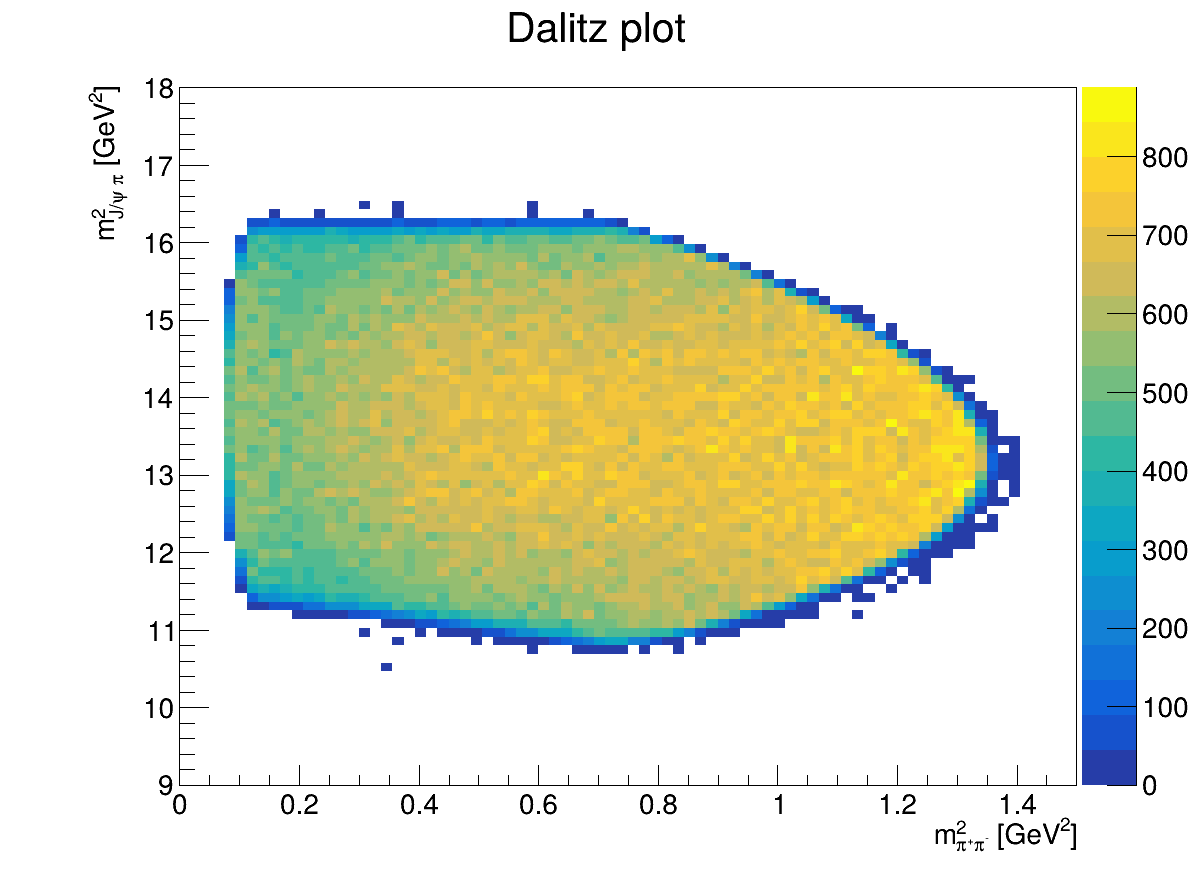
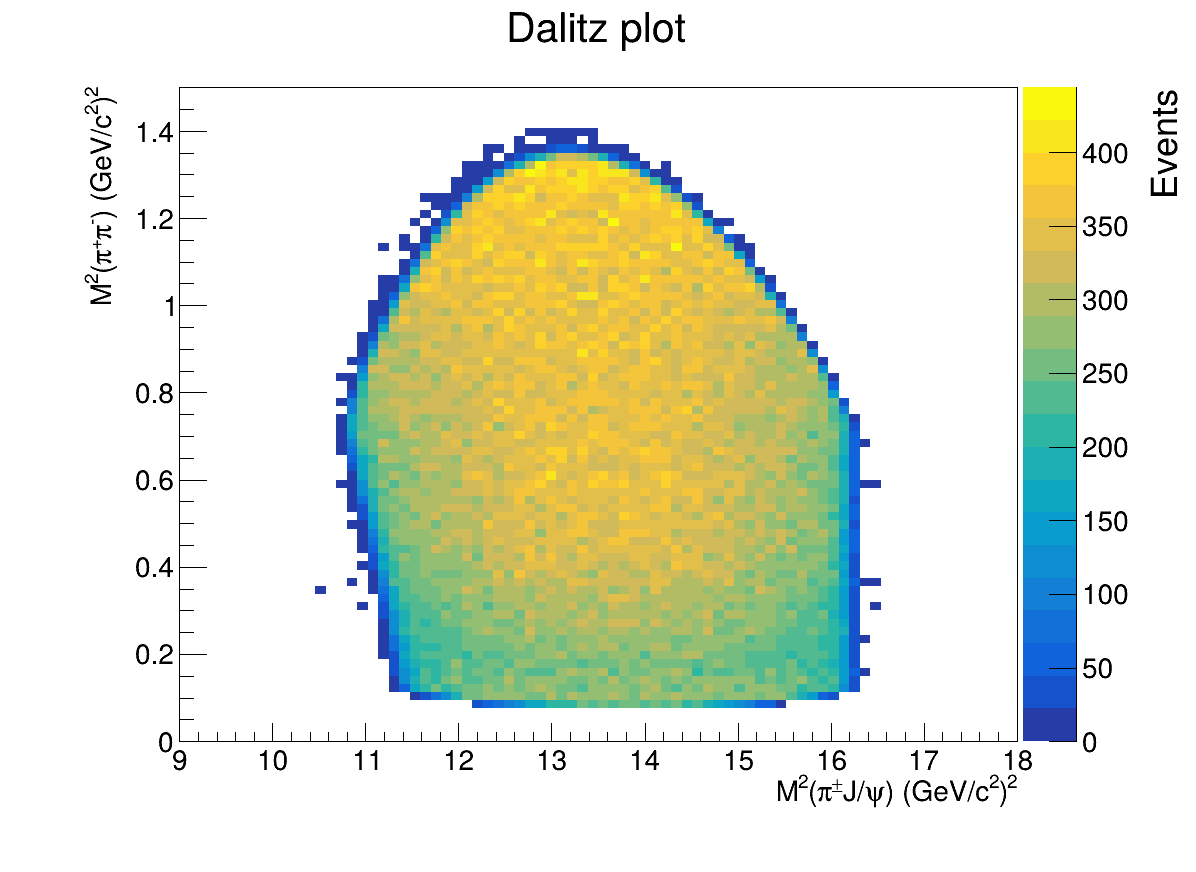
minor changes

diff --git a/part2_KinFit/ZcAnalysis.C b/part2_KinFit/ZcAnalysis.C
@@ -86,24 +86,23 @@ TH1D* h1_mJpsi_recoil = new TH1D(
 // problem 3.6
 TH2D* h2_dalitz = new TH2D(
 "h2_dalitz",
-"Dalitz plot; m^{2}_{#pi^{+}#pi^{-}} [GeV^{2}]; m^{2}_{J/#psi #pi} [GeV^{2}]",
-80,0,1.5,
-80,9,18
+"Dalitz plot; M^{2}(#pi^{#pm}J/#psi) (GeV/c^{2})^{2}; M^{2}(#pi^{+}#pi^{-}) (GeV/c^{2})^{2}",
+80,9,18,
+80,0,1.5
 );
 
-// ===== NEW HISTOGRAMS =====
 TH2D* h2_dalitz_sig = new TH2D(
 "h2_dalitz_sig",
-"Dalitz (signal); m^{2}_{#pi^{+}#pi^{-}} [GeV^{2}]; m^{2}_{J/#psi #pi} [GeV^{2}]",
-80,0,1.5,
-80,9,18
+"Dalitz (signal); M^{2}(#pi^{#pm}J/#psi) (GeV/c^{2})^{2}; M^{2}(#pi^{+}#pi^{-}) (GeV/c^{2})^{2}",
+80,9,18,
+80,0,1.5
 );
 
 TH2D* h2_dalitz_sb = new TH2D(
 "h2_dalitz_sb",
-"Dalitz (sideband); m^{2}_{#pi^{+}#pi^{-}} [GeV^{2}]; m^{2}_{J/#psi #pi} [GeV^{2}]",
-80,0,1.5,
-80,9,18
+"Dalitz (sideband); M^{2}(#pi^{#pm}J/#psi) (GeV/c^{2})^{2}; M^{2}(#pi^{+}#pi^{-}) (GeV/c^{2})^{2}",
+80,9,18,
+80,0,1.5
 );
 // problem 4.1
 TH1D* h1_mJpsi_pipi = new TH1D(
@@ -509,40 +508,23 @@ bool isSignal  = (mll > 3.08 && mll < 3.12);
 bool isLeftSB  = (mll > 3.00 && mll < 3.06);
 bool isRightSB = (mll > 3.14 && mll < 3.20);
 
-// ALWAYS fill original
-h2_dalitz->Fill(m2_pipi, m2_jpsipi1);
-h2_dalitz->Fill(m2_pipi, m2_jpsipi2);
+// ===== DALITZ WITH CORRECT AXIS ORIENTATION =====
 
-// signal only
+h2_dalitz->Fill(m2_jpsipi1, m2_pipi);
+h2_dalitz->Fill(m2_jpsipi2, m2_pipi);
+
+// signal
 if (isSignal)
 {
-    h2_dalitz_sig->Fill(m2_pipi, m2_jpsipi1);
-    h2_dalitz_sig->Fill(m2_pipi, m2_jpsipi2);
+    h2_dalitz_sig->Fill(m2_jpsipi1, m2_pipi);
+    h2_dalitz_sig->Fill(m2_jpsipi2, m2_pipi);
 }
 
 // sidebands
 if (isLeftSB || isRightSB)
 {
-    h2_dalitz_sb->Fill(m2_pipi, m2_jpsipi1);
-    h2_dalitz_sb->Fill(m2_pipi, m2_jpsipi2);
-}
-
-// ALWAYS fill original Dalitz (for comparison)
-h2_dalitz->Fill(m2_pipi, m2_jpsipi1);
-h2_dalitz->Fill(m2_pipi, m2_jpsipi2);
-
-// signal-only
-if (isSignal)
-{
-    h2_dalitz_sig->Fill(m2_pipi, m2_jpsipi1);
-    h2_dalitz_sig->Fill(m2_pipi, m2_jpsipi2);
-}
-
-// sidebands
-if (isLeftSB || isRightSB)
-{
-    h2_dalitz_sb->Fill(m2_pipi, m2_jpsipi1);
-    h2_dalitz_sb->Fill(m2_pipi, m2_jpsipi2);
+    h2_dalitz_sb->Fill(m2_jpsipi1, m2_pipi);
+    h2_dalitz_sb->Fill(m2_jpsipi2, m2_pipi);
 }
     // // problem 3.0
    if (electronEvent)
@@ -773,9 +755,18 @@ h1_mJpsi_recoil->Fit(ffit_voigt,"R");
 {
     TCanvas* canvas = new TCanvas("canvas","canvas",1200,900);
     canvas->SetLeftMargin(0.15);
+    canvas->SetRightMargin(0.15);
+    canvas->SetBottomMargin(0.15);
 
+    
     //  draw Dalitz histogram
     h2_dalitz->Draw("COLZ");
+    gPad->Update();
+    h2_dalitz->GetZaxis()->SetTitle("Events");
+    h2_dalitz->GetZaxis()->SetTitleSize(0.045);
+    h2_dalitz->GetZaxis()->SetLabelSize(0.035);
+
+    gPad->Modified();
     gPad->Update();
 
     double s = sqrt_s * sqrt_s;
@@ -817,7 +808,6 @@ h1_mJpsi_recoil->Fit(ffit_voigt,"R");
     dalitz_lower->SetLineWidth(3);
 
     
-
     dalitz_upper->Draw("same");
     dalitz_lower->Draw("same");
 
@@ -827,21 +817,47 @@ h1_mJpsi_recoil->Fit(ffit_voigt,"R");
 // ===== DEBUG: SIGNAL ONLY =====
 {
     TCanvas* c1 = new TCanvas("c_sig","c_sig",1200,900);
+    
     h2_dalitz_sig->Draw("COLZ");
+    gPad->Update();
+
+    h2_dalitz_sig->GetZaxis()->SetTitle("Events");
+    h2_dalitz_sig->GetZaxis()->SetTitleSize(0.045);
+    h2_dalitz_sig->GetZaxis()->SetLabelSize(0.035);
+    gPad->Modified();
+    gPad->Update();
     c1->SaveAs(savePath + "Dalitz_signal_only.png");
 }
 
 // ===== DEBUG: SIDEBAND ONLY =====
 {
     TCanvas* c2 = new TCanvas("c_sb","c_sb",1200,900);
+    
     h2_dalitz_sb->Draw("COLZ");
+    gPad->Update();
+
+    h2_dalitz_sb->GetZaxis()->SetTitle("Events");
+    h2_dalitz_sb->GetZaxis()->SetTitleSize(0.045);
+    h2_dalitz_sb->GetZaxis()->SetLabelSize(0.035);
+    gPad->Modified();
+    gPad->Update();
+
     c2->SaveAs(savePath + "Dalitz_sideband_only.png");
 }
 
 // ===== FINAL SUBTRACTED =====
 {
     TCanvas* c3 = new TCanvas("c_final","c_final",1200,900);
+   
+
     h2_dalitz_final->Draw("COLZ");
+    gPad->Update();
+
+    h2_dalitz_final->GetZaxis()->SetTitle("Events");
+    h2_dalitz_final->GetZaxis()->SetTitleSize(0.045);
+    h2_dalitz_final->GetZaxis()->SetLabelSize(0.035);
+    gPad->Modified();
+    gPad->Update();
     c3->SaveAs(savePath + "Dalitz_sideband_subtracted.png");
 }
 // problem 4.1
